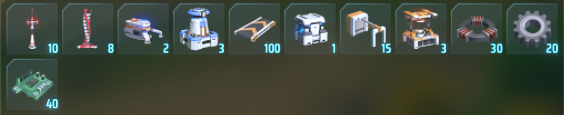
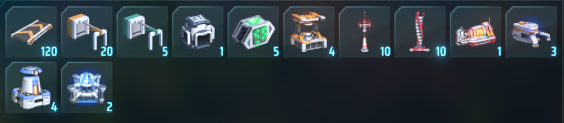
commit
Changed whole mod

diff --git a/FastStart/FastStart.cs b/FastStart/FastStart.cs
@@ -1,157 +1,188 @@
 using BepInEx;
 using BepInEx.Configuration;
 using HarmonyLib;
-using System.Reflection;
-using System.Reflection.Emit;
-using System.Collections.Generic;
-using System.Linq;
 using UnityEngine;
 using System;
+using xiaoye97;
 
 namespace FastStart
 {
-    [BepInPlugin(__GUID__, __NAME__, "1.0.0")]
+        
+    [BepInPlugin(__GUID__, __NAME__, "1.1.0")]
+
     public class FastStart : BaseUnityPlugin
     {
-        //public static float suppliesAmount;
-
+        
         public const string __NAME__ = "FastStart";
         public const string __GUID__ = "com.Trol1face.dsp." + __NAME__;
+
+        static int electromagnetismTechId = 1001;
+        static int smeltingTechId = 1401;
+        static int assemblyTechId = 1201;
+        static int matrixTechId = 1002;
+        static int logisticsMk1TechId = 1601;
+        static int logisticsMk2TechId = 1602;
+        static int thermalPowerTechId = 1412;
+        static int plasmaControlTechId = 1101;
+        static int electromagneticDriveTechId = 1701;
+        static int interplanetaryLogisticsTechId = 1605;
+        static int matrixLabId = 2901;
+        static int coilId = 1202;
+        static int beltMk1Id = 2001;
+        static int sorterk1Id = 2011;
+        static int storageMk1Id = 2101;
+        static int circuitId = 1301;
+        static int gearId = 1201;
+        static int motorId = 1203;
+        static int blueMatrixId = 6001;
+        static int wirelessTowerId = 2202;
+        static int ILSId = 2104;
+        static int vesselId = 5002;
+
         public static ConfigEntry<String> suppliesAmount;
-        public static ConfigEntry<bool> dronesTooSlow;
+        public static ConfigEntry<bool> giveBlueMatrix;
+        public static ConfigEntry<bool> giveFreeILS;
 
         private void Awake()
         {
             // Plugin startup logic
             suppliesAmount = Config.Bind("General", "Amount of supplies", "enough",
-            "'few' gives a couple of machines to make work a bit less manual, \n'enough' gives a few dozens (enough to start a small mall), \nhuge is huge. Check thunderstore modpage for more info\nAVAILABLE OPTIONS (type in): few, enough, huge. \nDEFAULT: enough.");
-            dronesTooSlow = Config.Bind("General", "Drones too slow (only enough/huge)", false,
-            "If enabled you will also receive 300 blue matrix to fast upgrade drones speed+count.");
+                "'few' gives a couple of machines to make work a bit less manual, \n"+
+                "'enough' gives a few dozens (enough to start a small mall), \n"+
+                "huge is huge. Check thunderstore modpage for more info\n"+
+                "AVAILABLE OPTIONS (type in): few, enough, huge. \nDEFAULT: enough.");
+            giveBlueMatrix = Config.Bind("General", "Drones too slow (only enough/huge)", false,
+                "If enabled completing matrixlab research will also give 300 blue matrixes to fast upgrade drones speed+count. Or something else\nDEFAULT: false");
+            giveFreeILS = Config.Bind("General", "Free ILS (only enough/huge)", false,
+                "If enabled completing Interplanetary Logistics research will award you with 2 ILS and 6 vessels.\nDEFAULT: false");
             new Harmony(__GUID__).PatchAll(typeof(Patch));
+            
+            LDBTool.EditDataAction += editElectromagnetismTech;
+            LDBTool.EditDataAction += editAssemblyTech;
+            LDBTool.EditDataAction += editSmeltingTech;
+            LDBTool.EditDataAction += editMatrixTech;
+            LDBTool.EditDataAction += editLogisticsMk1Tech;
+            LDBTool.EditDataAction += editLogisticsMk2Tech;
+            LDBTool.EditDataAction += editThermalPowerTech;
+            LDBTool.EditDataAction += editPlasmaControlTech;
+            LDBTool.EditDataAction += editElectromagneticDriveTech;
+            LDBTool.EditDataAction += editInterplanetaryLogisticsTech;
+            LDBTool.EditDataAction += editSpaceCapsuleLoot;
         }
 
-        static class Patch
-        {
-            [HarmonyTranspiler, HarmonyPatch(typeof(Player), "SetForNewGame")]
-            public static IEnumerable<CodeInstruction> Player_SetForNewGame_Transpiler(IEnumerable<CodeInstruction> instructions)
-            {
-                String value = suppliesAmount.Value;
-                if (value == "few" || value == "enough" || value == "huge") 
-                {
-                    CodeMatcher matcher = new(instructions);
-                    MethodInfo rep = typeof(FastStart).GetMethod("SuppliesDecider");
-                    MethodInfo anchorM = typeof(Configs).GetMethod("get_freeMode");
-                    FieldInfo anchorF = typeof(ModeConfig).GetField("items");
-                    matcher.MatchForward(false, 
-                        new CodeMatch(i => i.opcode == OpCodes.Call && i.operand is MethodInfo m && m == anchorM),
-                        new CodeMatch(i => i.opcode == OpCodes.Ldfld && i.operand is FieldInfo f && f == anchorF)
-                    );
-                    matcher.RemoveInstructions(2);
-                    matcher.Insert(
-                        new CodeInstruction(OpCodes.Call, rep)
-                    );
-                    //foreach (CodeInstruction ins in matcher.Instructions()) Debug.Log(" .. " + ins.ToString());
-
-                    return matcher.InstructionEnumeration();
-                
-                }
-                return instructions;
-            }
-        }
-
-        public static IDCNTINC[] SuppliesDecider() 
+        public static void editElectromagnetismTech(Proto proto) 
         {
             String amount = suppliesAmount.Value;
-            if (amount == "few" || amount == "enough" || amount == "huge") {
-                List <IDCNTINC> suppliesFew;
-                List <IDCNTINC> suppliesEnough;
-                List <IDCNTINC> suppliesHuge;
-                int minerId = 2301;
-                int smelterId = 2302;
-                int windTurbineId = 2203;
-                int teslaTowerId = 2201;
-                int sorterId = 2011;
-                int beltId = 2001;
-                int splitterId = 2020;
-                int storageId = 2101;
-                int assemblerId = 2303;
-                int matrixLabId = 2901;
-                int thermalStationId = 2204;
-                int WirelessPowerTowerId = 2202;
-                int coilId = 1202;
-                int circuitId = 1301;
-                int gearId = 1201;
-                int motorId = 1203;
-                int blueMatrixId = 6001;
-                suppliesFew = new() 
+            if (proto is TechProto techProto && proto.ID == electromagnetismTechId) 
+            {
+                if (amount == "few") techProto.AddItemCounts = new int[] {10, 10, 3};
+                if (amount == "enough") techProto.AddItemCounts = new int[] {30, 60, 15};
+                if (amount == "huge") techProto.AddItemCounts = new int[] {40, 100, 30};
+            }
+        }
+        public static void editSmeltingTech(Proto proto) 
+        {
+            String amount = suppliesAmount.Value;
+            if (proto is TechProto techProto && proto.ID == smeltingTechId) 
+            {
+                if (amount == "few") techProto.AddItemCounts = new int[] {4};
+                if (amount == "enough") techProto.AddItemCounts = new int[] {24};
+                if (amount == "huge") techProto.AddItemCounts = new int[] {48};
+            }
+        }
+        public static void editAssemblyTech(Proto proto) 
+        {
+            String amount = suppliesAmount.Value;
+            if (proto is TechProto techProto && proto.ID == assemblyTechId) 
+            {
+                if (amount == "few") techProto.AddItemCounts = new int[] {4};
+                if (amount == "enough") techProto.AddItemCounts = new int[] {24};
+                if (amount == "huge") techProto.AddItemCounts = new int[] {48};
+            }
+        }
+        public static void editMatrixTech(Proto proto) 
+        {
+            String amount = suppliesAmount.Value;
+            if (proto is TechProto techProto && proto.ID == matrixTechId) 
+            {
+                if (giveBlueMatrix.Value && amount != "few") 
                 {
-                    new(teslaTowerId, 10, 0),
-                    new(windTurbineId, 8, 0),
-                    new(minerId, 2, 0),
-                    new(smelterId, 3, 0),
-                    new(beltId, 100, 0),
-                    new(storageId, 1, 0),
-                    new(sorterId, 15, 0),
-                    //new(splitterId, 1, 0),
-                    new(assemblerId, 3, 0),
-                    new(coilId, 30, 0),
-                    new(gearId, 20, 0),
-                    new(circuitId, 40, 0)
-                };
-                suppliesEnough = new() 
-                {
-                    new(teslaTowerId, 50, 0),
-                    new(windTurbineId, 30, 0),
-                    new(minerId, 14, 0),
-                    new(smelterId, 24, 0),
-                    new(beltId, 600, 0),
-                    new(storageId, 6, 0),
-                    new(sorterId, 100, 0),
-                    new(splitterId, 10, 0),
-                    new(assemblerId, 20, 0),
-                    new(matrixLabId, 8, 0),
-                    new(coilId, 30, 0),
-                    new(gearId, 20, 0),
-                    new(circuitId, 40, 0)
-                };
-                suppliesHuge = new() {
-                    new(teslaTowerId, 200, 0),
-                    new(windTurbineId, 30, 0),
-                    new(WirelessPowerTowerId, 20, 0),
-                    new(thermalStationId, 8, 0),
-                    new(minerId, 30, 0),
-                    new(smelterId, 50, 0),
-                    new(beltId, 900, 0),
-                    new(sorterId, 400, 0),
-                    new(splitterId, 50, 0),
-                    new(storageId, 30, 0),
-                    new(assemblerId, 50, 0),
-                    new(matrixLabId, 20, 0),
-                    new(coilId, 30, 0),
-                    new(gearId, 20, 0),
-                    new(circuitId, 40, 0),
-                    new(motorId, 60, 0)
-                };
-                if (dronesTooSlow.Value) 
-                {
-                    suppliesEnough.Add(new(blueMatrixId, 300, 0));
-                    suppliesHuge.Add(new(blueMatrixId, 300, 0));
-                }
-                if (amount == "few")
-                {
-                    return suppliesFew.ToArray();
-                }
-                else if (amount == "enough")
-                {
-                    return suppliesEnough.ToArray();
-                }
-                else if (amount == "huge")
-                {
-                    return suppliesHuge.ToArray();
+                    techProto.AddItems = new int[] {matrixLabId, blueMatrixId}; 
+                    if (amount == "enough") techProto.AddItemCounts = new int[] {12, 300};
+                    if (amount == "huge") techProto.AddItemCounts = new int[] {24, 300};
+                } else {
+                    if (amount == "few") techProto.AddItemCounts = new int[] {2};
+                    if (amount == "enough") techProto.AddItemCounts = new int[] {12};
+                    if (amount == "huge") techProto.AddItemCounts = new int[] {24};
                 }
             }
-            return Configs.freeMode.items;
-            
+        }
+        public static void editLogisticsMk1Tech(Proto proto) 
+        {
+            String amount = suppliesAmount.Value;
+            if (proto is TechProto techProto && proto.ID == logisticsMk1TechId) 
+            {
+                techProto.AddItems = new int[] {beltMk1Id, sorterk1Id, storageMk1Id};
+                if (amount == "few") techProto.AddItemCounts = new int[] {120, 20, 2};
+                if (amount == "enough") techProto.AddItemCounts = new int[] {600, 120, 10};
+                if (amount == "huge") techProto.AddItemCounts = new int[] {1200, 300, 30};
+            }
+        }
+        public static void editLogisticsMk2Tech(Proto proto) 
+        {
+            String amount = suppliesAmount.Value;
+            if (proto is TechProto techProto && proto.ID == logisticsMk2TechId && amount != "few") 
+            {
+                if (amount == "enough") techProto.AddItemCounts = new int[] {10, 20};
+                if (amount == "huge") techProto.AddItemCounts = new int[] {20, 40};
+            }
+        }
+        public static void editThermalPowerTech(Proto proto) 
+        {
+            String amount = suppliesAmount.Value;
+            if (proto is TechProto techProto && proto.ID == thermalPowerTechId && amount != "few") 
+            {
+                if (amount == "enough") techProto.AddItemCounts = new int[] {4};
+                if (amount == "huge") techProto.AddItemCounts = new int[] {9};
+            }
+        }
+        public static void editPlasmaControlTech(Proto proto) 
+        {
+            String amount = suppliesAmount.Value;
+            if (proto is TechProto techProto && proto.ID == plasmaControlTechId && amount != "few") 
+            {
+                techProto.AddItems = new int[] {wirelessTowerId}; 
+                if (amount == "enough") techProto.AddItemCounts = new int[] {5};
+                if (amount == "huge") techProto.AddItemCounts = new int[] {20};
+            }
+        }
+        public static void editElectromagneticDriveTech(Proto proto) 
+        {
+            String amount = suppliesAmount.Value;
+            if (proto is TechProto techProto && proto.ID == electromagneticDriveTechId && amount != "few") 
+            {
+                techProto.AddItems = new int[] {motorId};
+                techProto.AddItemCounts = new int[] {60};
+            }
+        }
+        public static void editInterplanetaryLogisticsTech(Proto proto) 
+        {
+            String amount = suppliesAmount.Value;
+            if (proto is TechProto techProto && proto.ID == interplanetaryLogisticsTechId && amount != "few" && giveFreeILS.Value) 
+            {
+                techProto.AddItems = new int[] {ILSId, vesselId};
+                techProto.AddItemCounts = new int[] {2, 6};
+            }
+        }
+        public static void editSpaceCapsuleLoot(Proto proto)
+        {
+            if (proto is VegeProto vegeProto && proto.ID == 9999)
+            {
+                vegeProto.MiningTime = 120;
+                vegeProto.MiningItem = new int[] {1801, coilId, circuitId, gearId};
+                vegeProto.MiningCount = new int[] {3, 30, 40, 20};
+            }
         }
     }
+
 }

diff --git a/README.md b/README.md
@@ -1,33 +1,43 @@
 # FastStart
 
-This mod alternates your starting inventory (10 copper and iron bars) to something else. 3 options right now.  
-It is not like super balanced but i don't think that **enough** is somehow OP. Huge is huge, thats why it called huge.
+This mod changes space capsule loot and early tech rewards to skip manual digging/crafting stage. 3 options right now.  
 
-Every option has 30 magnetic coils, 40 circuit boards and 20 gears for early techs (electromagnetism, metallurgy, matrix, assembling and logistics) to skip manual digging/crafting and unlock basic building tools.
+In every option space capsule drops enough materials to research electromagnetism, logistics, smelting, assembly and matrixlab.
 
-There is also an option in config that will add 300 blue matrixes to starting equip for fast drones speed+count research if you don't like their starting speed. *Personally i don't*
+There are 2 options in config:
 
-#### few 
+- first will give blue matrixes for fast first drones speed+count research if you don't like their starting speed. *Personally i don't.*
+- second will reward you with 2 ILS and 6 vessels for completing Interplanetary Logistics research, so you won't fly back and forth a couple times to setup first ILS;
 
-Gives a very few machines to reduce this manual stage a bit.
+### Detailed rewards (IMPORTANT: every building is a reward for corresponding tech research)
+
+#### 'few' option
+
+Gives a little more than default rewards.
 
 ![few](https://raw.githubusercontent.com/Trol1face/DSP_FastStart/main/images/few.png)
 
-Researching early techs rewards you with buildings, so for **few** its more likely 3 miners, 4 smelters and a couple more belts&sorters.
+#### 'enough' option
 
-#### enough
-
-Gives enough to don't dig and craft things manual, to build a small mall which will replicate more things.
+Gives a lot more, enough to setup blues. Also 60 motors for first movespeed research.
 
 ![enough](https://raw.githubusercontent.com/Trol1face/DSP_FastStart/main/images/enough.png)
 
-#### huge
+#### 'huge' option
 
-Huge is huge. A lot of basic things, a dozen of wireless power towers (WPT) and couple of thermal power stations (TPS) to have no problems with early energy. **You can't build unopened things via menu at the bottom, to build them take them from inventory.**
+Lots of everything
 
 ![huge](https://raw.githubusercontent.com/Trol1face/DSP_FastStart/main/images/huge.png)
 
+#### Space capsule drop
+
+![space capsule drop](https://raw.githubusercontent.com/Trol1face/DSP_FastStart/main/images/capsuledrop.png)
+
 ## Recent changes
+
+#### 1.1.0
+
+Changed whole mod, no more cheaters inventory that you can't properly use right after landing, things are gained as awards for basic tech researches and space capsule drops you research components. Also added one more option.
 
 #### 1.0.3
 
